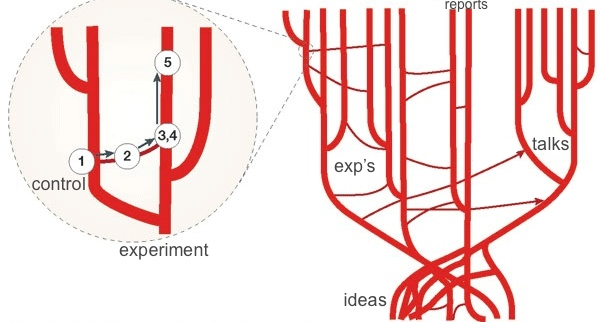
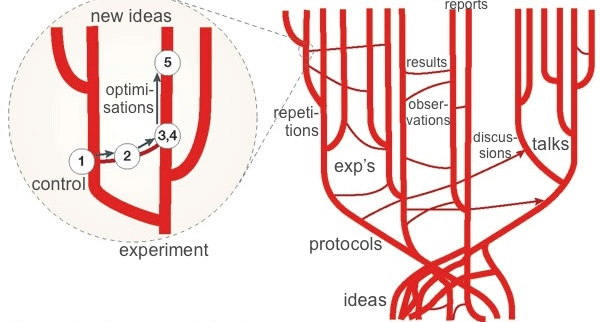
better horizontal info transfer

diff --git a/README.md b/README.md
@@ -13,16 +13,11 @@ date: 2015-Apr-13
 
 [![](images/change-we-can-believe-in.jpg "More Darwin (Mike Rosulek,2009-Feb-20)")](http://www.mikero.com/misc/darwin/)
 
-### What is evolution?
+### What is evolution? Inheritance of genetic changes!
 
 [![](images/Horizontal-gene-transfer-ori.jpg "Smets & Barkay (2005) Horizontal gene transfer: perspectives at a crossroads of scientific disciplines")](http://www.nature.com/nrmicro/journal/v3/n9/fig_tab/nrmicro1253_F1.html)
 
-#### Genetic changes; chronologically ordered by inheritance.
-
-### Projects live & evolve, too! Largely digitally. 
-
-> 1. ideas => implementations => observations & data collection => repetitions & optimisations
-> 1. discussions of results => reports, posters, talks, manuscripts, etc. => feedback from collauges => new ideas
+### Projects evolve, too! Digital records amass and change.
 
 ![](images/Horizontal-info-transfer.png)
 
